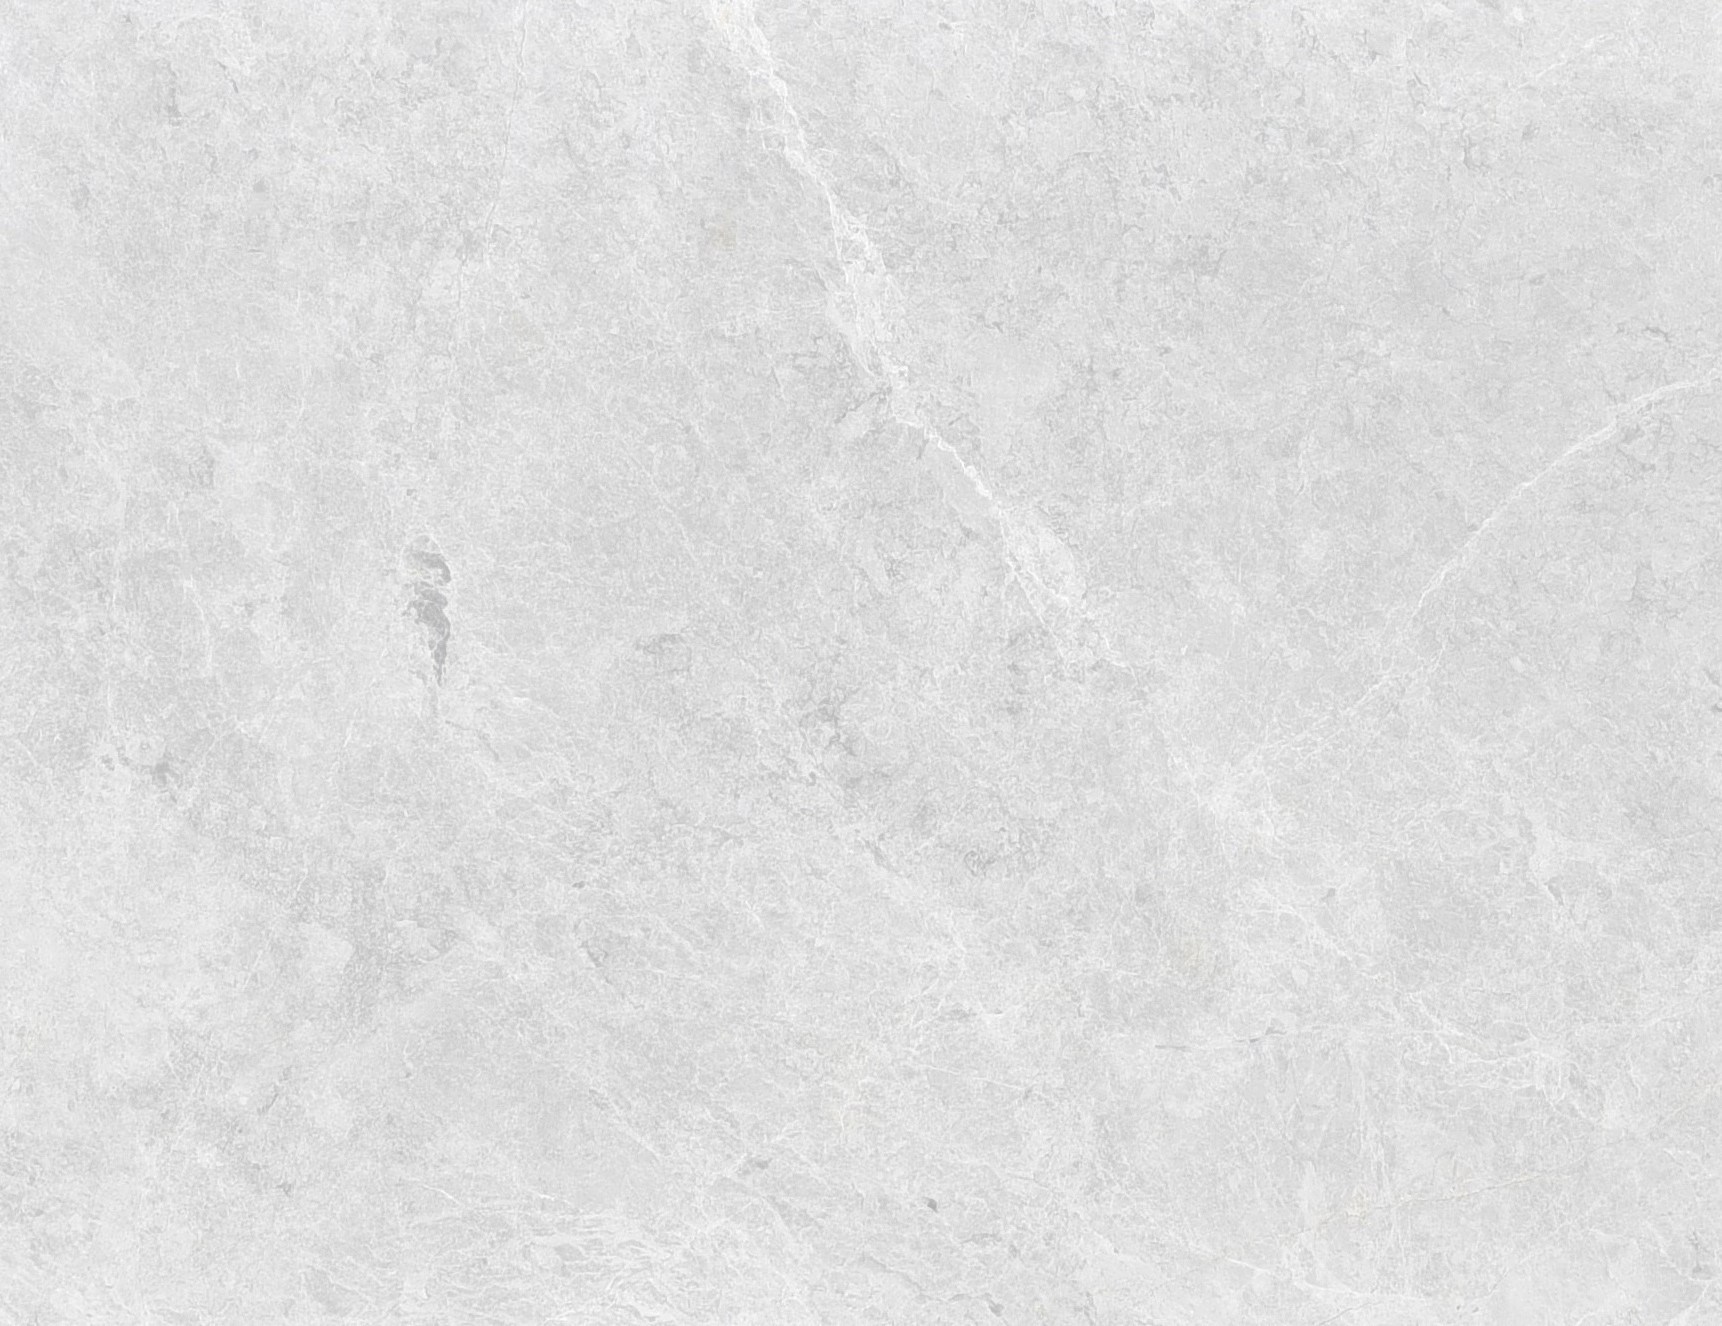
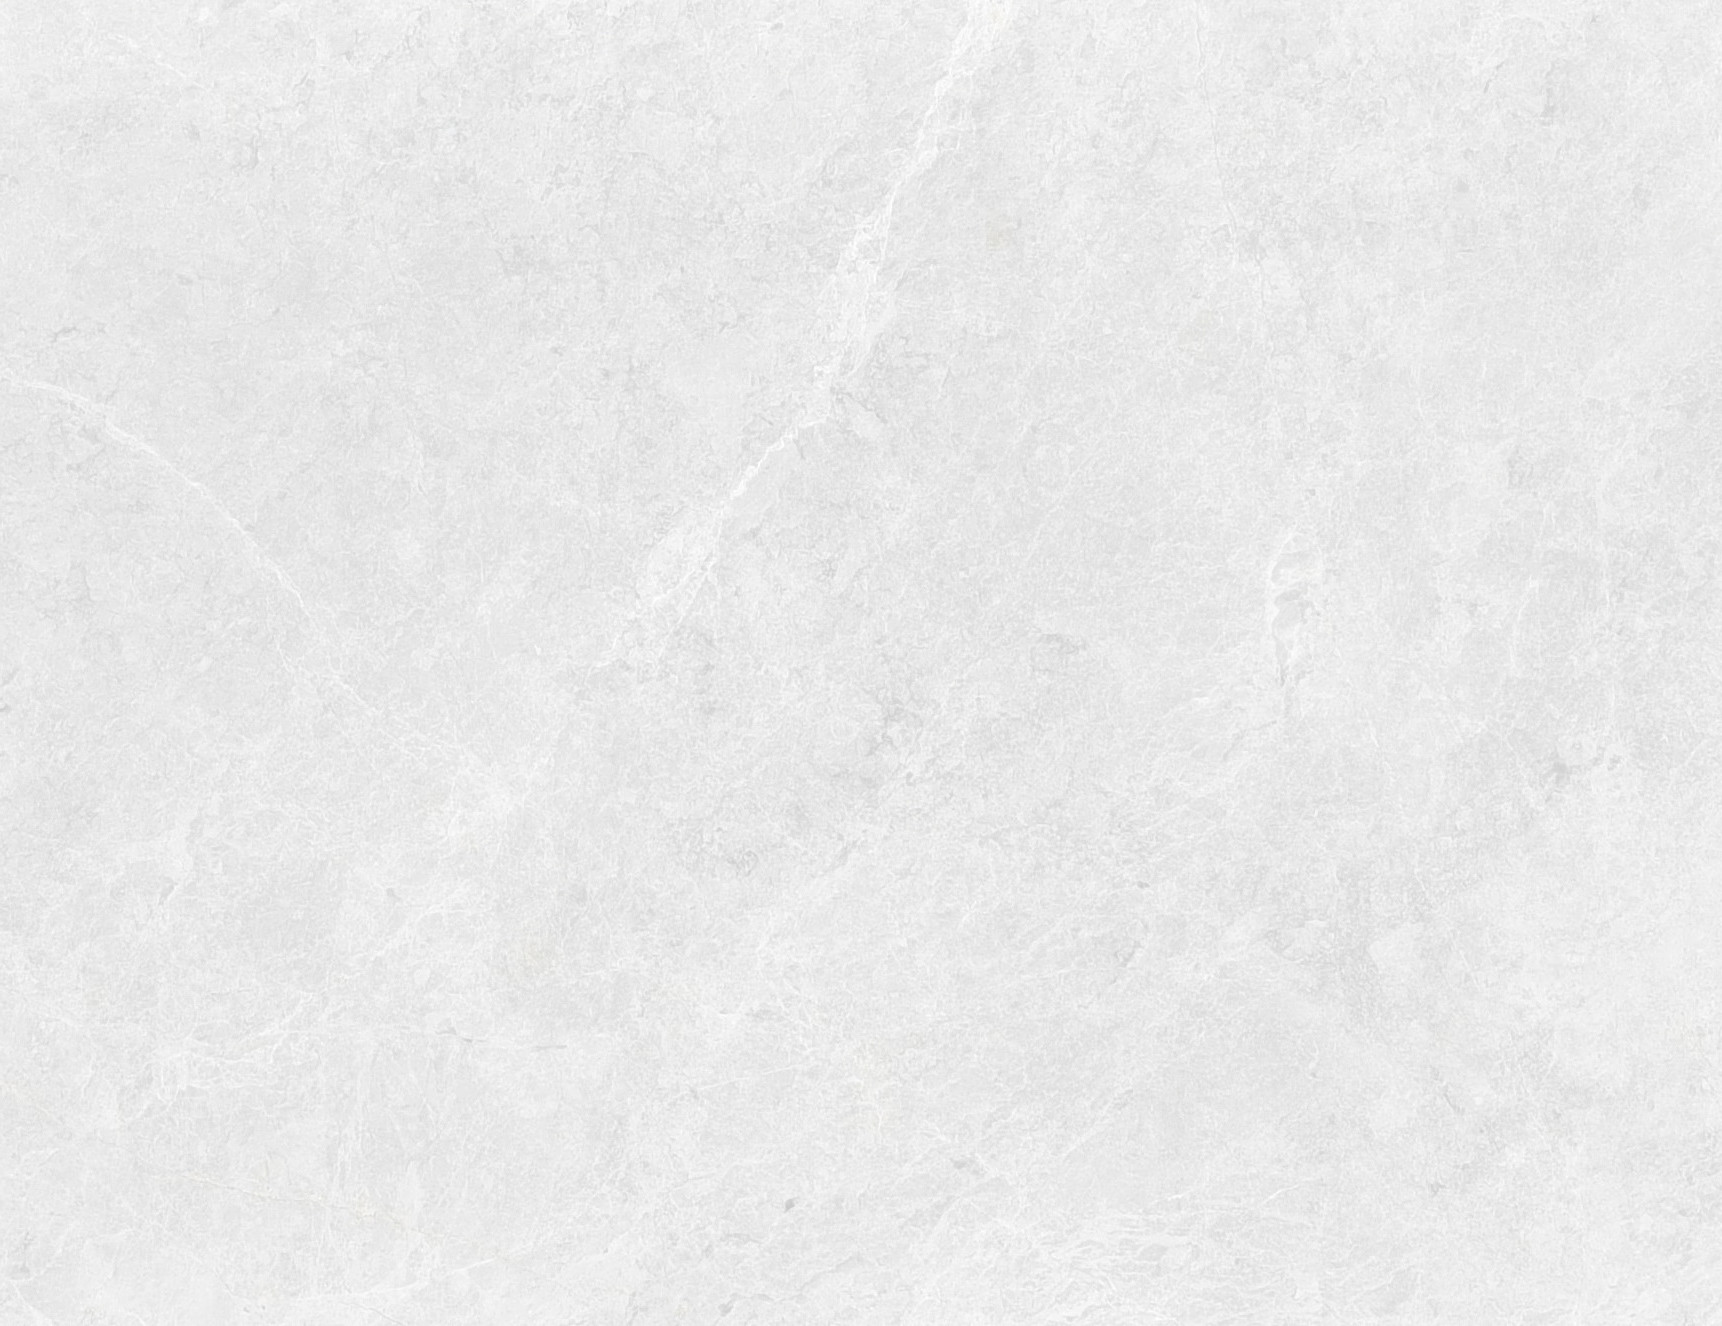
graphics added

diff --git a/frontend/js/wordGenerator.js b/frontend/js/wordGenerator.js
@@ -13,10 +13,15 @@ function addWordGenerator () {
    //Radio Buttons
    const radioButtonDiv = document.createElement("div");
    radioButtonDiv.classList.add("radio-button-div");
-   const radioButtonHeader = document.createElement("h2");
+   const radioButtonHeader = document.createElement("h3");
    radioButtonHeader.classList.add("radio-button-header");
-   radioButtonHeader.innerHTML ="Word Generator";
+   radioButtonHeader.innerHTML ="Word Explorer";
    radioButtonDiv.appendChild(radioButtonHeader);
+   const radioButtonExplanation = document.createElement("div");
+   radioButtonExplanation.innerHTML ="Find new words & inspiration with this tool.";
+   radioButtonExplanation.style.paddingBottom = '7px'
+   radioButtonDiv.appendChild(radioButtonExplanation);
+
    let containerDiv = document.getElementById("containerDiv");
    containerDiv.appendChild(radioButtonDiv);
    const radioButton = ['Rhyming', 'Related', 'Synonyms'];
@@ -37,8 +42,10 @@ function addWordGenerator () {
             }else if(radioButtonValue == "Synonyms") {
                 synonym = inputValue;
         }
-        radioButtonDiv.appendChild(labelValue);
+        labelValue.style.paddingLeft = '3px';
+        labelValue.style.paddingRight = '15px';
         radioButtonDiv.appendChild(inputValue);
+        radioButtonDiv.appendChild(labelValue);
    })
  
    rightColumn.appendChild(radioButtonDiv); 

diff --git a/frontend/css/stephlyna.css b/frontend/css/stephlyna.css
@@ -113,7 +113,7 @@ a:hover{
     border: none;
 }
 
-.download-button,.share-button,.reset-button{
+.download-button,.save-button,.reset-button{
     background-color:#FABEC0;
     background: linear-gradient(145deg, #ffcbcd, #e1abad);
     border-radius: 60px;
@@ -129,7 +129,7 @@ a:hover{
     margin-left: 10%;
     margin-top: 2%;
 }
-.download-button:hover,.share-button:hover,.reset-button:hover{
+.download-button:hover,.save-button:hover,.reset-button:hover{
     border-radius: 60px;
     outline: none; 
     border: none;
@@ -138,7 +138,7 @@ a:hover{
     color: #4a5259;
     cursor: pointer;
 }
-.download-button:focus,.share-button:focus,.reset-button:focus {
+.download-button:focus,.save-button:focus,.reset-button:focus {
     outline: none; 
     border: none;
 }

diff --git a/frontend/css/style.css b/frontend/css/style.css
@@ -25,16 +25,15 @@
     cursor:move;
 }
 #editor1 {
-    border: 1px solid grey;
+    border: 2px solid maroon;
     height: 400px;
-    width: 602px;
+    width: 600px;
     margin: 0px auto 0;
     padding: 10px;
     overflow: auto;
     background-color: rgba(255, 255, 255, .5);
-    background-image: url('../images/cottonPaperTexture2.png');
+    background-image: url('../images/cottonPaperTexture3.png');
     background-size: cover;
-    border: none;
     outline: none;
    }
 fieldset {
@@ -147,4 +146,9 @@ header {
     background: none;
     border: none;
     margin-right: 30px;
+}
+
+.radio-button-header{
+    padding-top: 25px;
+    text-decoration: underline;
 }

diff --git a/frontend/js/poemTypeView.js b/frontend/js/poemTypeView.js
@@ -279,8 +279,8 @@ const poemTypeElement = function (examplePoemType) {
   const toolsDiv = document.createElement("div");
   toolsDiv.classList.add("tools-div");
   containerDiv.appendChild(toolsDiv);
-  const toolsButton = document.createElement("button");
-  toolsButton.classList.add("tools-button");
+  const toolsButton = document.createElement("h2");
+  // toolsButton.classList.add("tools-button");
   toolsButton.innerText = "Tools";
   //add event listener here to open collapsible tools menu?
   toolsDiv.appendChild(toolsButton);
